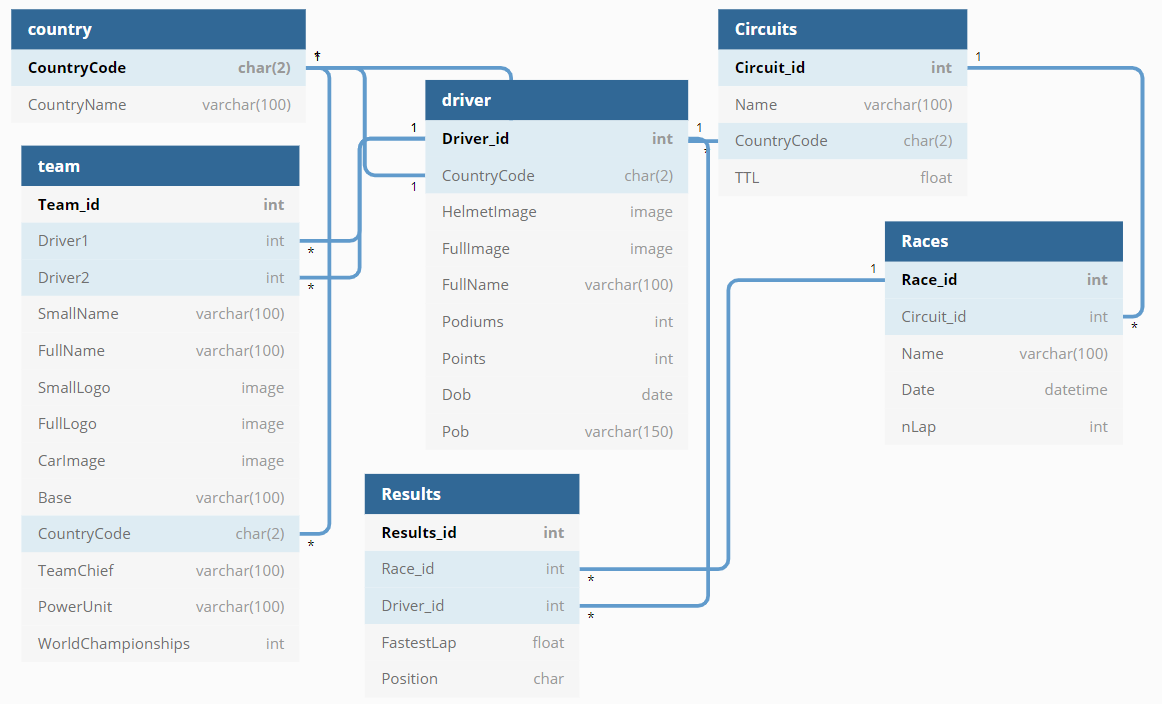
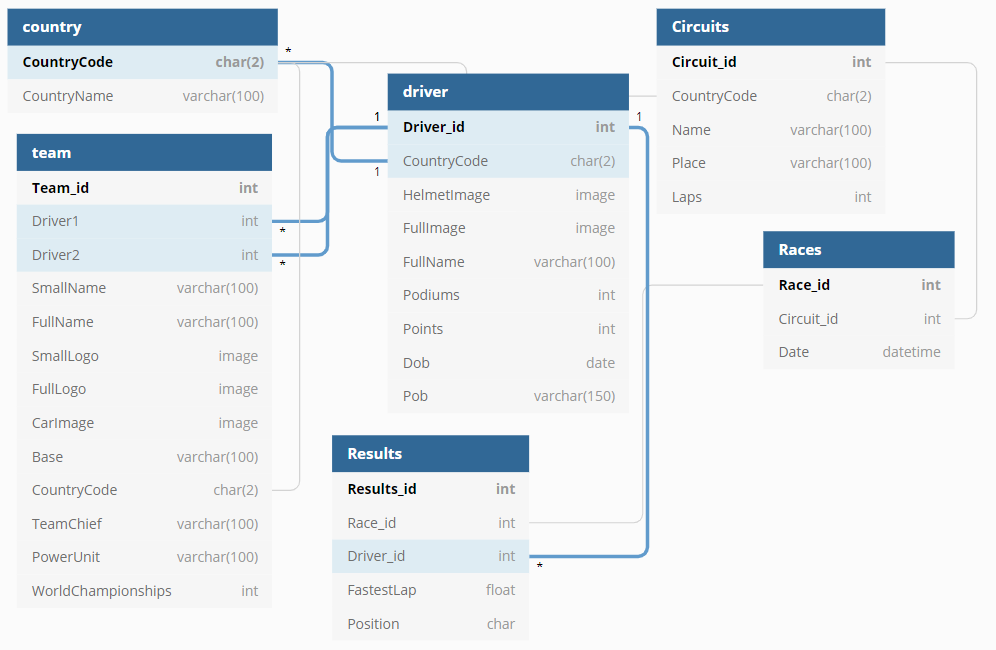
Modellazione db completata. Sistemato menu cli. Manca restore, remove e backup di tabelle e database. Aggiunti nuovi script, aggiornato schema db.

diff --git a/formulaOne_console/Program.cs b/formulaOne_console/Program.cs
@@ -16,13 +16,24 @@ namespace formulaOne_console
         {
             Console.Clear();
             Console.Title = "Formula one - Batch operations";
-            Console.WriteLine("*** Formula one - Batch operations ***");
-            Console.WriteLine("1 - Execute import countries table;");
-            Console.WriteLine("2 - Execute import teams table;");
-            Console.WriteLine("3 - Execute import drivers table;");
-            Console.WriteLine("4 - Show countries table elements;");
-            Console.WriteLine("5 - Show teams table elements;");
-            Console.WriteLine("6 - Show drivers table elements;");
+            Console.WriteLine("********* Formula one - Batch operations *********");
+            Console.WriteLine("\n>>>>>> Create Table");
+            Console.WriteLine("1 - Execute import COUNTRIES table;");
+            Console.WriteLine("2 - Execute import TEAMS table;");
+            Console.WriteLine("3 - Execute import DRIVERS table;");
+            Console.WriteLine("4 - Execute import CIRCUITS table;");
+            Console.WriteLine("5 - Execute import RACES table;");
+            Console.WriteLine("6 - Execute import RESULTS table;");
+            Console.WriteLine("\n>>>>>> Show Table");
+            Console.WriteLine("7 - Show COUNTRIES table elements;");
+            Console.WriteLine("8 - Show TEAMS table elements;");
+            Console.WriteLine("9 - Show DRIVERS table elements;");
+            Console.WriteLine("a - Show CIRCUITS table elements;");
+            Console.WriteLine("b - Show RACES table elements;");
+            Console.WriteLine("c - Show RESULTS table elements;");
+            Console.WriteLine("\n>>>>>> Others");
+            Console.WriteLine("f - Execute set relations;");
+            Console.WriteLine("u - Execute remove relations;");
             Console.WriteLine("X - Exit.");
             Console.Write("\nYour selection: ");
         }
@@ -46,13 +57,37 @@ namespace formulaOne_console
                         dbManager.ExecuteSqlScript("Drivers.sql");
                         break;
                     case '4':
-                        show("countries");
+                        dbManager.ExecuteSqlScript("Circuits.sql");
                         break;
                     case '5':
-                        show("teams",25);
+                        dbManager.ExecuteSqlScript("Races.sql");
                         break;
                     case '6':
+                        dbManager.ExecuteSqlScript("Results.sql");
+                        break;
+                    case '7':
+                        show("countries");
+                        break;
+                    case '8':
+                        show("teams",25);
+                        break;
+                    case '9':
                         show("drivers",18);
+                        break;
+                    case 'a':
+                        show("circuits",35);
+                        break;
+                    case 'b':
+                        show("races");
+                        break;
+                    case 'c':
+                        show("results");
+                        break;
+                    case 'f':
+                        dbManager.ExecuteSqlScript("foreignKeys.sql");
+                        break;
+                    case 'u':
+                        dbManager.ExecuteSqlScript("removeForeign.sql");
                         break;
                     default:
                         if (c != 'x' && c != 'X')
@@ -72,14 +107,16 @@ namespace formulaOne_console
 		private static void show(string tableName, int nChar = 10)
 		{
             Console.Clear();
+            bool asRow = false;
             using(System.Data.DataTable dt = dbManager.getTableElement(tableName))
 			{
-				foreach (System.Data.DataRow row in dt.Rows)
+                foreach (System.Data.DataRow row in dt.Rows)
 				{
 					foreach (var item in row.ItemArray)
 					{
 						if (!item.ToString().Contains("System."))
 						{
+                            asRow = true;
                             DateTime date;
                             string aus = item.ToString();
                             if (DateTime.TryParse(item.ToString(),out date))
@@ -97,6 +134,10 @@ namespace formulaOne_console
                     Console.WriteLine();
                 }
             }
+			if (!asRow)
+			{
+                Console.WriteLine("No data to display.");
+			}
             Console.WriteLine("\n\nPress any button to return to the start menù");
             Console.ReadKey();
         }

diff --git a/dll_Utilities/Utilities_Database.cs b/dll_Utilities/Utilities_Database.cs
@@ -47,12 +47,14 @@ namespace dll_Utilities
                 {
                     Console.WriteLine("Errore in esecuzione della query numero: " + i);
                     Console.WriteLine("\tErrore SQL: " + err.Number + " - " + err.Message);
+                    Console.ReadKey();
                     nr++;
                 }
             }
 
             Console.Clear();
             Console.WriteLine($"Processo di creazione della tabella \"{sqlScriptName.Substring(0, sqlScriptName.IndexOf('.'))}\" terminato con {nr} error{(nr == 1 ? "e" : "i")}.");
+            Console.ReadKey();
             con.Close();
         }
 
